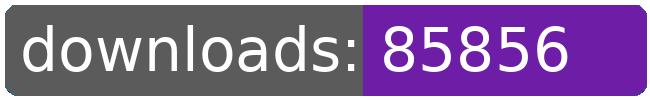
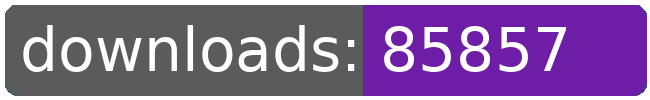
dl log written

Changed region(s): [[0.8, 0.24, 0.8923, 0.72]]

diff --git a/README.md b/README.md
@@ -21,8 +21,8 @@
 		<td>6075</td>
 		<td>6098</td>
 		<td>6123</td>
-		<td>6131</td>
-		<td>+ 8</td>
+		<td>6132</td>
+		<td>+ 9</td>
 	</tr>
 	<tr>
 		<td>aberrant.kahet.outfitter</td>
@@ -274,8 +274,8 @@
 		<td></td>
 		<td></td>
 		<td></td>
-		<td>85856</td>
-		<td>87</td>
+		<td>85857</td>
+		<td>88</td>
 	</tr>
 </table>
 </sub></sup>
@@ -300,8 +300,8 @@
 		<td>6075</td>
 		<td>6098</td>
 		<td>6123</td>
-		<td>6131</td>
-		<td>+ 8</td>
+		<td>6132</td>
+		<td>+ 9</td>
 	</tr>
 	<tr>
 		<td>aberrant.kahet.outfitter</td>
@@ -553,8 +553,8 @@
 		<td></td>
 		<td></td>
 		<td></td>
-		<td>85856</td>
-		<td>87</td>
+		<td>85857</td>
+		<td>88</td>
 	</tr>
 </table>
 </sub></sup>